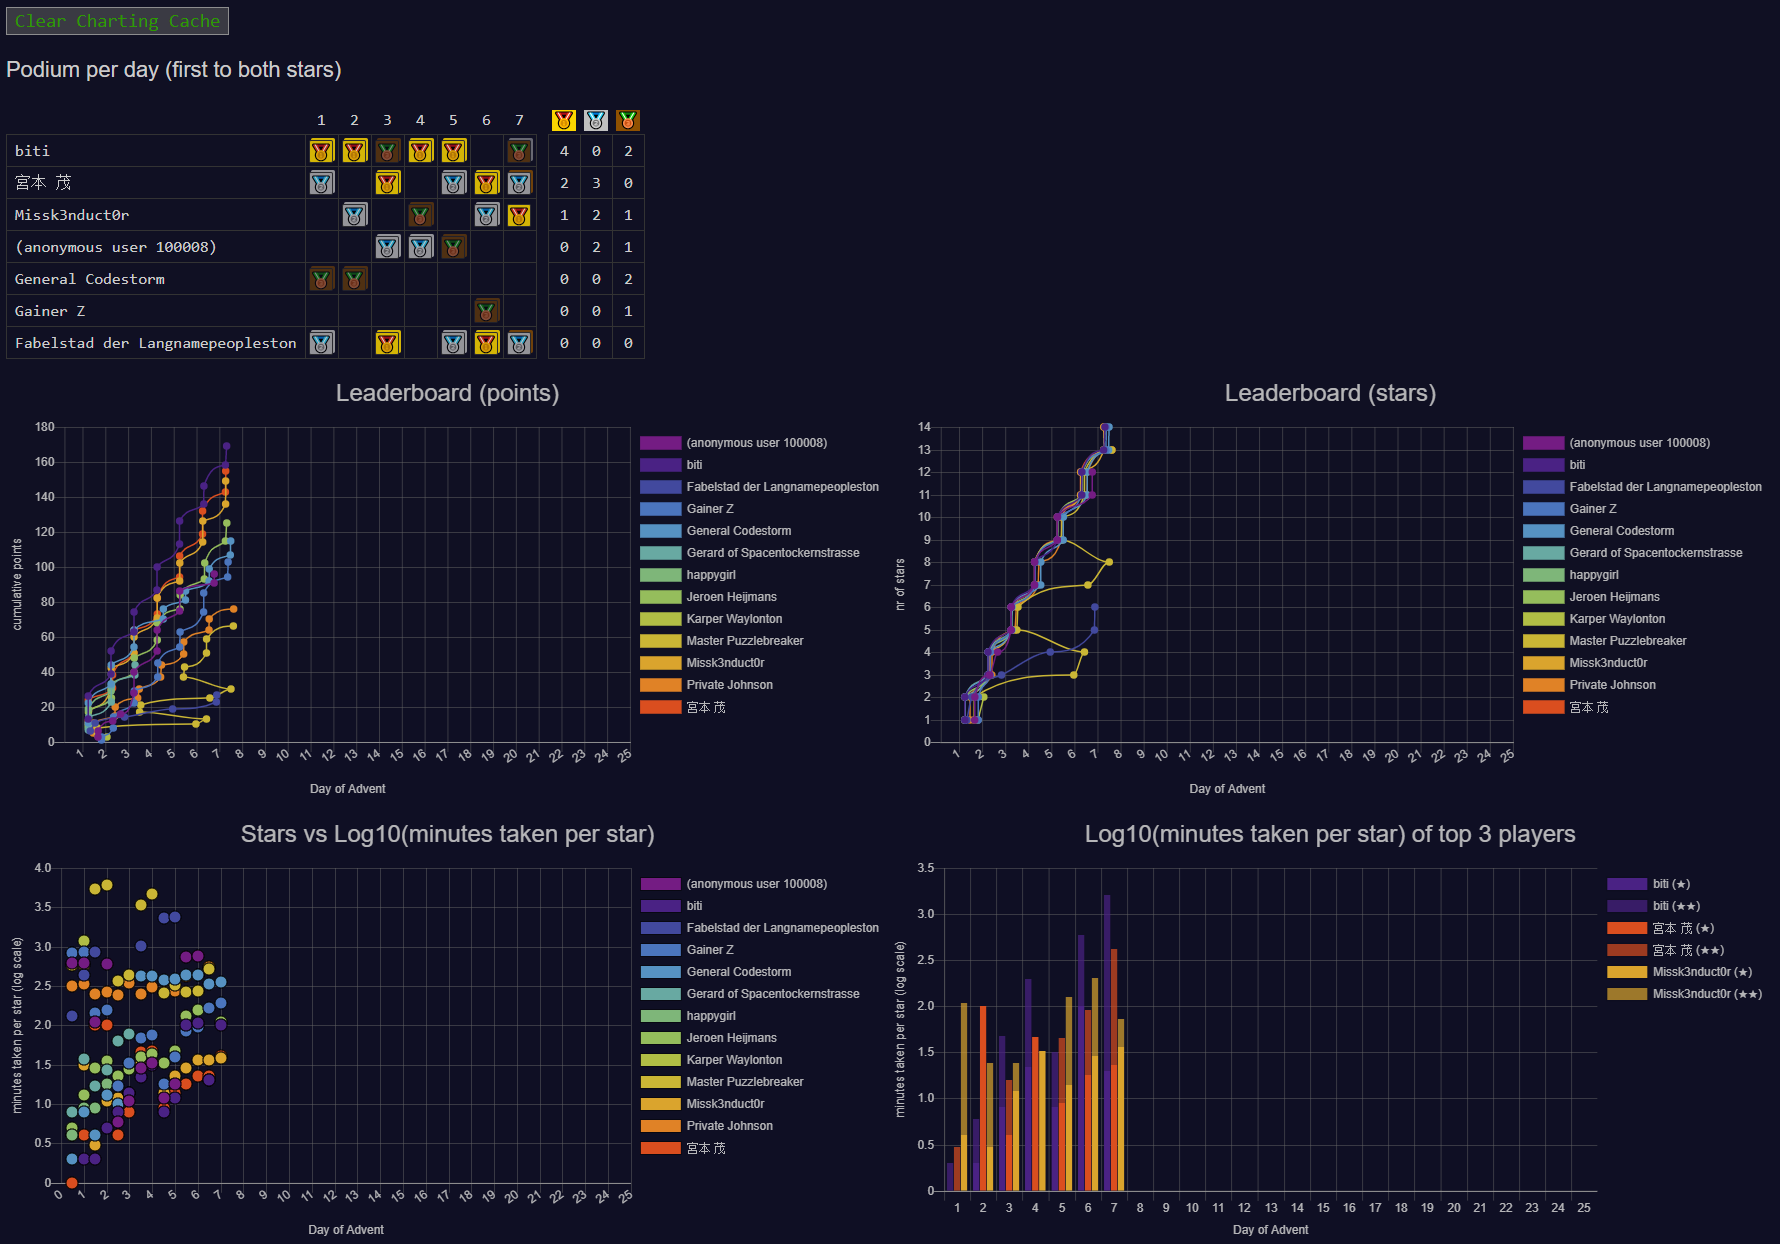
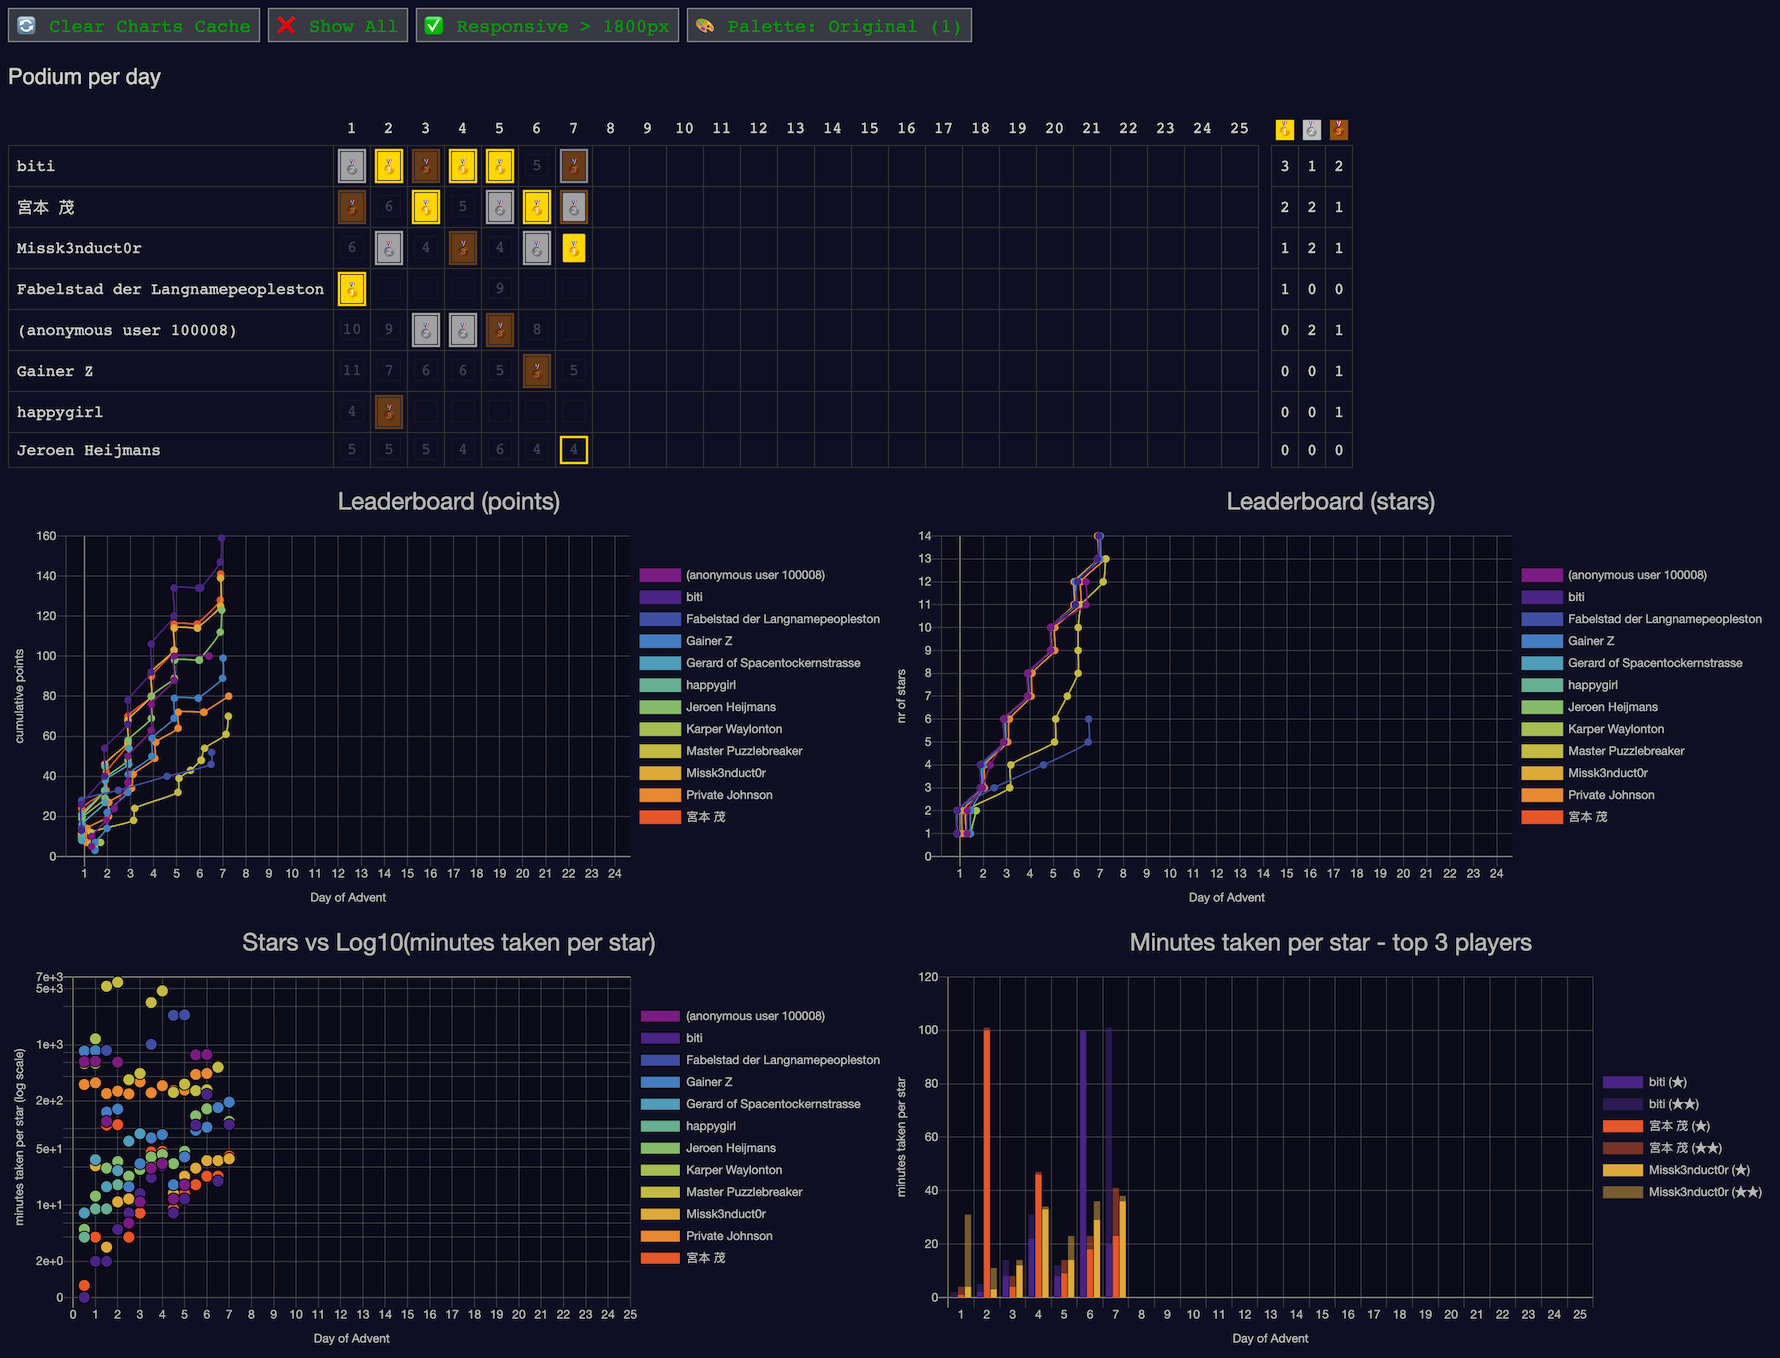
Add toggle to show all players in medal overview table

diff --git a/src/js/app.js b/src/js/app.js
@@ -233,7 +233,11 @@
             }
         }
 
-        return 0;
+        return b.local_score - a.local_score;
+    }
+
+    function memberByLocalScoreSorter(a, b) {
+        return b.local_score - a.local_score;
     }
 
     function getCacheKey() {
@@ -254,6 +258,15 @@
     function clearCache() {
         console.log("Clearing cache", getCacheKey());
         localStorage.setItem(getCacheKey(), null);
+    }
+
+    function toggleShowAll() {
+        localStorage.setItem("aoc-flag-v1-show-all", !isShowAllToggled());
+        location.reload();
+    }
+
+    function isShowAllToggled() {
+        return !!JSON.parse(localStorage.getItem("aoc-flag-v1-show-all"));
     }
 
     function toggleResponsiveness() {
@@ -439,6 +452,17 @@
             cacheBustLink.style.padding = "2px 8px";
             cacheBustLink.style.border = `1px solid ${aocColors.secondary}`;
             cacheBustLink.addEventListener("click", () => clearCache());
+
+            const showAllToggleLink = this.controls.appendChild(document.createElement("a"));
+            showAllToggleLink.innerText = (isShowAllToggled() ? "✅" : "❌") + " Show All";
+            showAllToggleLink.title = "Show all players";
+            showAllToggleLink.style.cursor = "pointer";
+            showAllToggleLink.style.background = aocColors.tertiary;
+            showAllToggleLink.style.display = "inline-block";
+            showAllToggleLink.style.padding = "2px 8px";
+            showAllToggleLink.style.border = `1px solid ${aocColors.secondary}`;
+            showAllToggleLink.style.marginLeft = "8px";
+            showAllToggleLink.addEventListener("click", () => toggleShowAll());
 
             const responsiveToggleLink = this.controls.appendChild(document.createElement("a"));
             responsiveToggleLink.innerText = (isResponsivenessToggled() ? "✅" : "❌") + " Responsive > 1800px";
@@ -692,7 +716,11 @@
             const medalHtml = n => n === 0 ? "🥇" : n === 1 ? "🥈" : n === 2 ? "🥉" : `${n}`;
             const medalColor = n => n === 0 ? "gold" : n === 1 ? "silver" : n === 2 ? "#945210" : "rgba(15, 15, 35, 1.0)";
 
-            this.medals.title = "For each day, the top 3 to get the second star are shown. Behind each medal you can get a glimpse of the podium for the *first* star.";
+            this.medals.title =
+              (isShowAllToggled()
+                ? ''
+                : 'For each day, the top 3 to get the second star are shown. ') +
+              'Behind each medal you can get a glimpse of the podium for the *first* star.';
             let titleElement = this.medals.appendChild(document.createElement("h3"));
             titleElement.innerText = "Podium per day";
             titleElement.style.fontFamily = "Helvetica, Arial, sans-serif";
@@ -722,7 +750,9 @@
                 td.align = "center";
             }
 
-            for (let member of grid.sort(memberByPodiumSorter)) {
+            for (let member of grid.sort(
+              isShowAllToggled() ? memberByLocalScoreSorter : memberByPodiumSorter
+            )) {
                 let tr = document.createElement("tr");
                 let medalCount = 0;
 
@@ -788,7 +818,7 @@
                     td.align = "center";
                 }
 
-                if (medalCount > 0) {
+                if (isShowAllToggled() || medalCount > 0) {
                     gridElement.appendChild(tr);
                 }
             }
